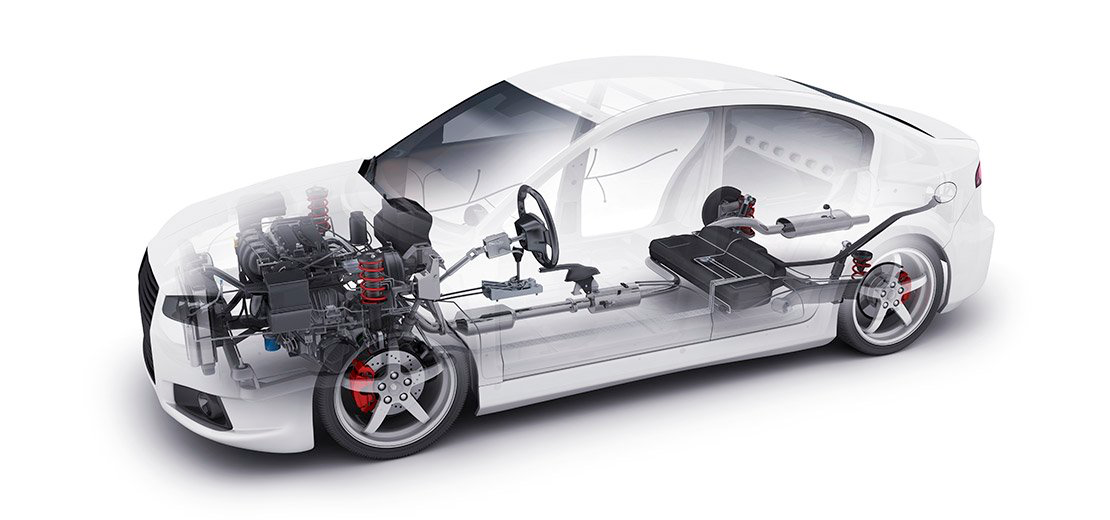
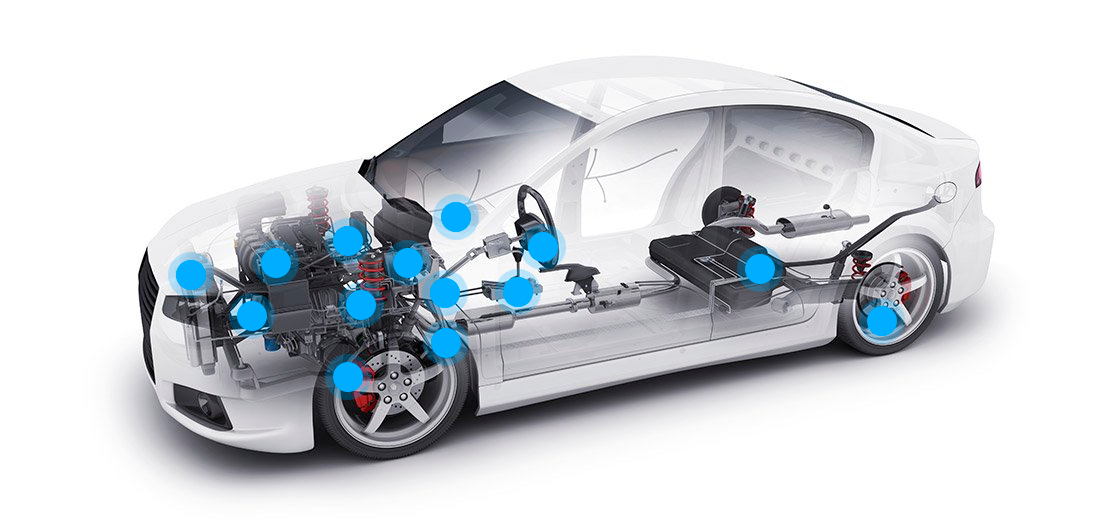
ok

diff --git a/css/style.css b/css/style.css
@@ -611,96 +611,96 @@ header h1 {
 }
 
 #content-tab1>div:nth-child(1)>div:nth-child(2) {
-  top: 214px;
-  left: 390px;
+  top: 39%;
+  left: 39%;
 }
 #content-tab1>div:nth-child(1)>div:nth-child(3) {
-  top: 187px;
-  left: 251px;
+  top: 33%;
+  left: 25%;
 }
 #content-tab1>div:nth-child(1)>div:nth-child(4) {
-  top: 71px;
-  left: 258px;
+  top: 14%;
+  left: 26%;
 }
 #content-tab1>div:nth-child(1)>div:nth-child(5) {
-  top: 115px;
-  left: 118px;
+  top: 20%;
+  left: 12%;
 }
 #content-tab1>div:nth-child(1)>div:nth-child(6) {
-  top: 26px;
-  left: 543px;
+  top: 4%;
+  left: 54%;
 }
 #content-tab1>div:nth-child(1)>div:nth-child(7) {
-  top: 89px;
-  left: 465px;
+  top: 17%;
+  left: 47%;
 }
 #content-tab1>div:nth-child(1)>div:nth-child(8) {
-  top: 194px;
-  left: 786px;
+  top: 35%;
+  left: 79%;
 }
 #content-tab1>div:nth-child(1)>div:nth-child(9) {
-  top: 280px;
-  left: 422px;
+  top: 50%;
+  left: 42%;
 }
 #content-tab1>div:nth-child(1)>div:nth-child(10) {
-  top: 165px;
-  left: 592px;
+  top: 29%;
+  left: 59%;
 }
 #content-tab2>div:nth-child(1)>div:nth-child(2) {
-  top: 260px;
-  left: 820px;
+  top: 55%;
+  left: 83%;
 }
 #content-tab2>div:nth-child(1)>div:nth-child(3) {
-  top: 215px;
-  left: 703px;
+  top: 46%;
+  left: 71%;
 }
 #content-tab2>div:nth-child(1)>div:nth-child(4) {
-  top: 231px;
-  left: 496px;
+  top: 48%;
+  left: 49%;
 }
 #content-tab2>div:nth-child(1)>div:nth-child(5) {
-  top: 272px;
-  left: 430px;
+  top: 60%;
+  left: 43%;
 }
 #content-tab2>div:nth-child(1)>div:nth-child(6) {
-  top: 234px;
-  left: 428px;
+  top: 48%;
+  left: 43%;
 }
 #content-tab2>div:nth-child(1)>div:nth-child(7) {
-  top: 309px;
-  left: 345px;
+  top: 64%;
+  left: 35%;
 }
 #content-tab2>div:nth-child(1)>div:nth-child(8) {
-  top: 229px;
-  left: 350px;
+  top: 48%;
+  left: 35%;
 }
 #content-tab2>div:nth-child(1)>div:nth-child(9) {
-  top: 255px;
-  left: 255px;
+  top: 53%;
+  left: 25%;
 }
 #content-tab2>div:nth-child(1)>div:nth-child(10) {
-  top: 199px;
-  left: 383px;
+  top: 41%;
+  left: 38%;
 }
 #content-tab2>div:nth-child(1)>div:nth-child(11) {
-  top: 187px;
-  left: 518px;
+  top: 38%;
+  left: 52%;
 }
 #content-tab2>div:nth-child(1)>div:nth-child(12) {
-  top: 211px;
-  left: 266px;
+  top: 44%;
+  left: 27%;
 }
 #content-tab2>div:nth-child(1)>div:nth-child(13) {
-  top: 221px;
-  left: 205px;
+  top: 46%;
+  left: 21%;
 }
 #content-tab2>div:nth-child(1)>div:nth-child(14) {
-  top: 183px;
-  left: 335px;
+  top: 38%;
+  left: 33%;
 }
 #content-tab2>div:nth-child(1)>div:nth-child(15) {
-  top: 152px;
-  left: 431px;
+  top: 31%;
+  left: 43%;
 }
 
 

diff --git a/css/media.css b/css/media.css
@@ -717,6 +717,10 @@
 			top: 0;
 		}
 
+		.section-tab__item-img img {
+			left: -476px;
+		}
+
 		.form-main p {
 			margin-top: 30px;
 		}
@@ -996,9 +1000,9 @@
 			margin-bottom: 20px;
 			background-size: 60px;
 		}
-		.section-tab {
+		/* .section-tab {
 			transform: scale(0.8);
-		}
+		} */
 
 		.tabs>label {
 			height: 61px;
@@ -1056,6 +1060,25 @@
 }
 
 @media (max-width: 800px) {
+	.tabs>label {
+		height: 58px;
+		padding: 15px 8px;
+	}
+	.section-tab__item-img {
+		display: none;
+	}
+
+	.section-tab__item ul {
+		max-width: 100%;
+		margin: 0 auto;
+	}
+		.section-tab__item li {
+			margin-left: 94px;
+		}
+		
+	.tooltip::before {
+		background-size: 35px;
+	}
 	.stat__title {
 		font-size: 25px;
 	}
@@ -1285,6 +1308,10 @@
 		display: none;
 	}
 }
+@media (max-width: 720px) {
+	
+}
+
 
 @media (max-width: 640px) {
 
